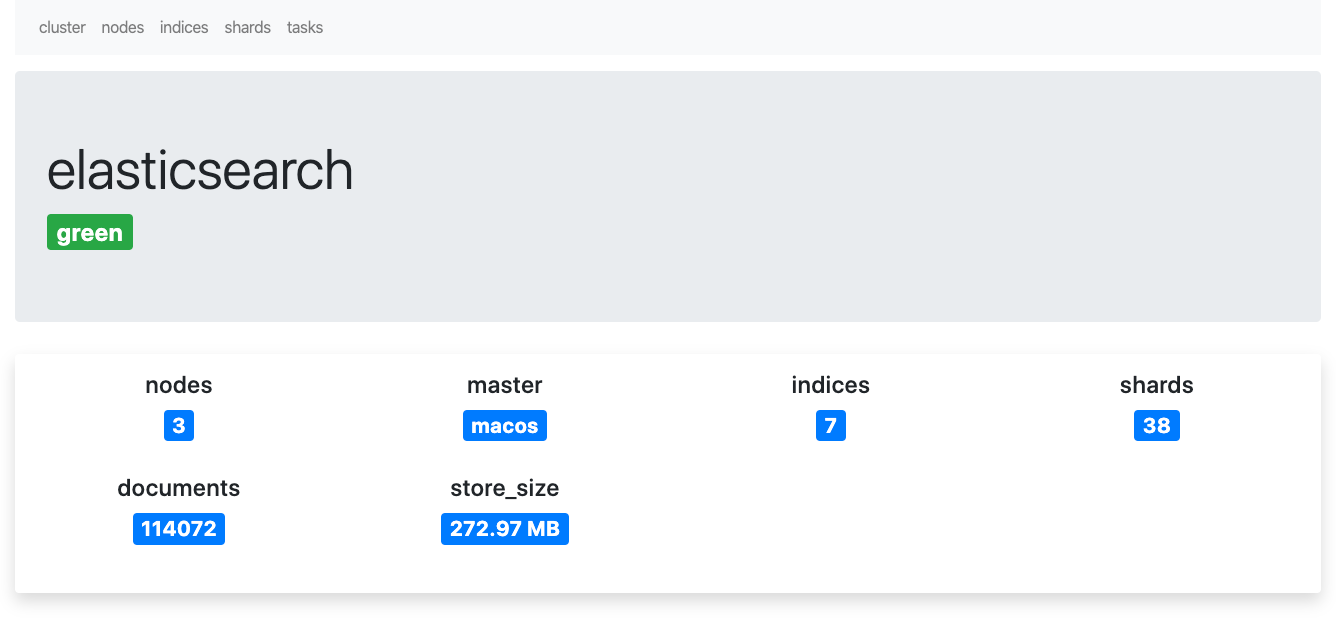
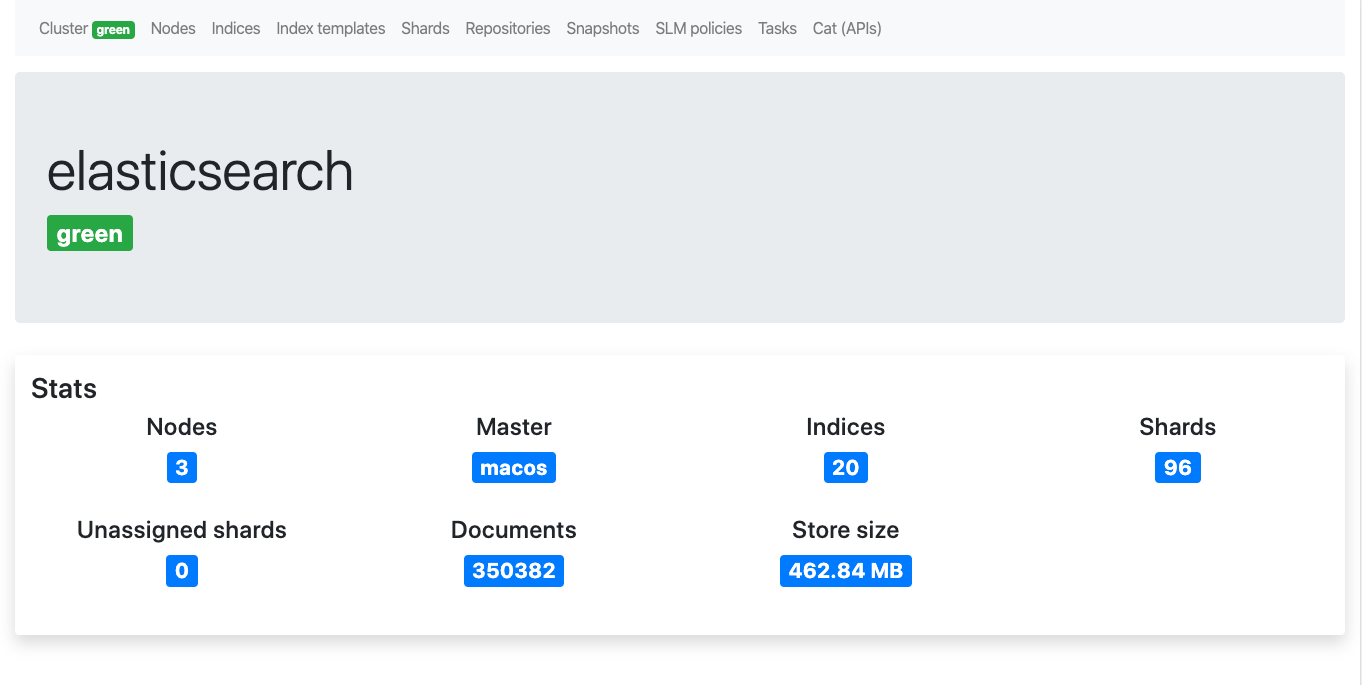
-

diff --git a/README.md b/README.md
@@ -47,8 +47,11 @@ yarn encore production
 ![Cluster](assets/images/cluster.png)
 ![Nodes](assets/images/nodes.png)
 ![Indices](assets/images/indices.png)
-![Index](assets/images/index.png)
-![Index shards](assets/images/index_shards.png)
-![Index documents](assets/images/index_documents.png)
-![Tasks](assets/images/tasks.png)
-
+![Index templates](assets/images/index-templates.png)
+![Index template: create](assets/images/index-templates-create.png)
+![Repository: create](assets/images/repository-create.png)
+![SLM policy: create](assets/images/slm-policy-create.png)
+![SLM policy: history](assets/images/slm-policy-history.png)
+![Snaphosts](assets/images/snapshots.png)
+![Snaphost failures](assets/images/snapshot-failures.png)
+![Cat APIs](assets/images/cat.png)
